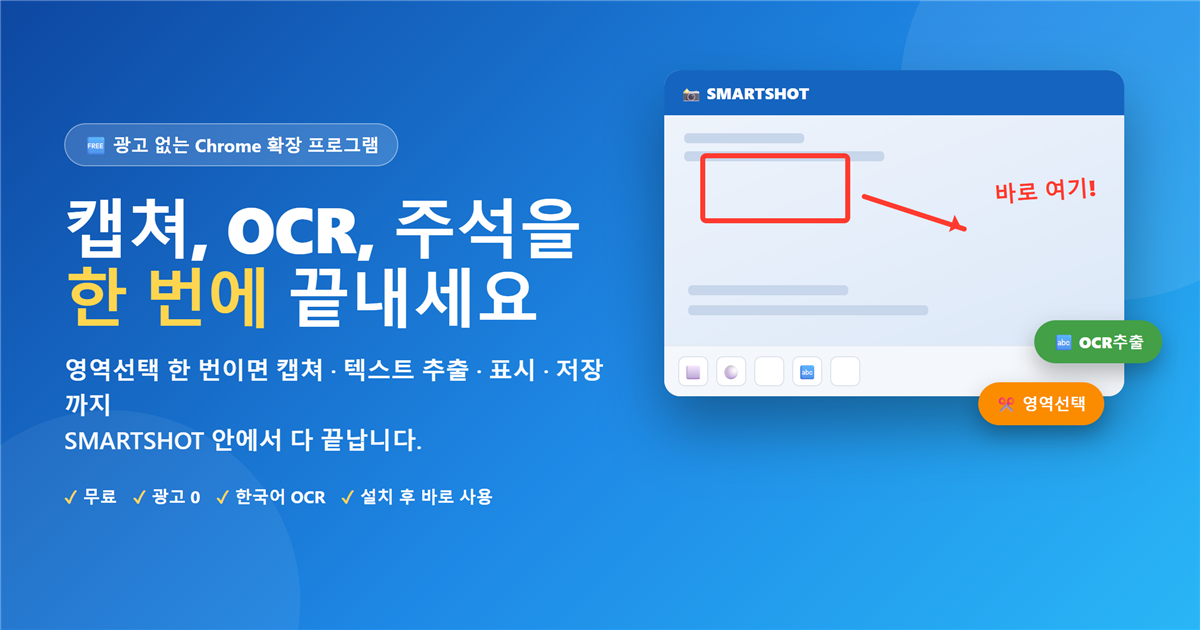
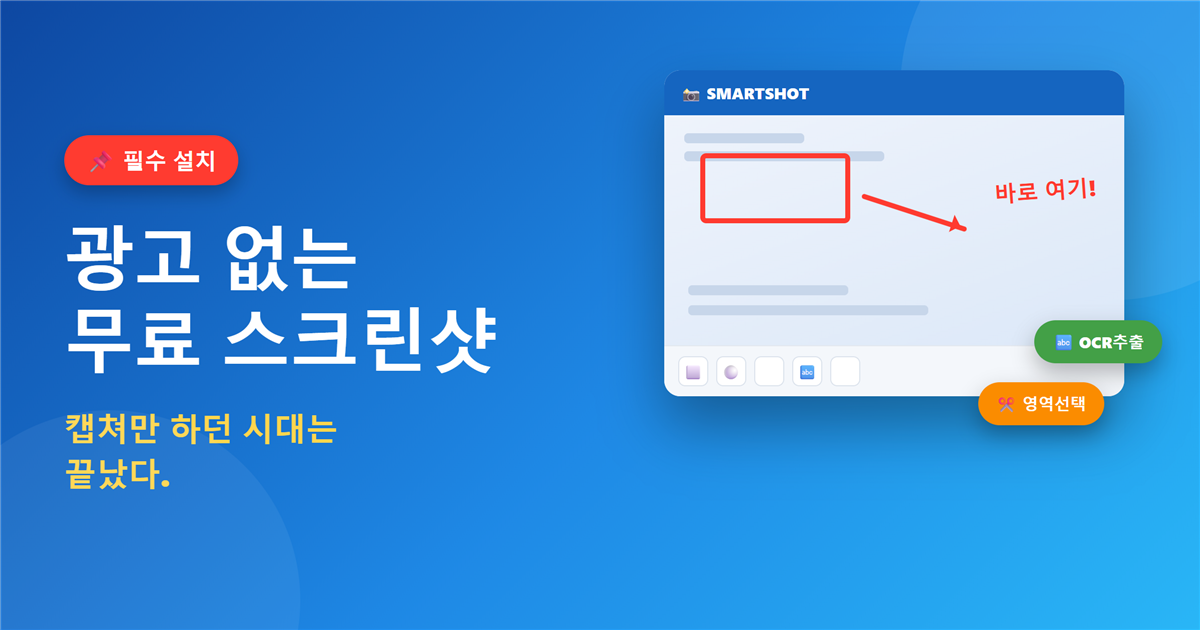
Rewrite SMARTSHOT OG copy: stronger hook, drop jargon
Replaces "주석" (jargon) and the long unreadable tagline with a
punchier headline/tagline pair scored against 9 alternatives
("필수 설치 — 광고 없는 무료 스크린샷 / 캡쳐만 하던 시대는 끝났다"),
sized for legibility in small KakaoTalk preview thumbnails.

Changed region(s): [[0.0308, 0.181, 0.5242, 0.8143]]

diff --git a/smartshot/landing.html b/smartshot/landing.html
@@ -7,15 +7,15 @@
 
 <meta property="og:type" content="website" />
 <meta property="og:url" content="https://www.smacedu.kr/smartshot/landing" />
-<meta property="og:title" content="SMARTSHOT — 캡쳐, OCR, 주석을 한 번에 끝내세요" />
-<meta property="og:description" content="영역선택 한 번이면 캡쳐 · 텍스트 추출 · 표시 · 저장까지 SMARTSHOT 안에서 다 끝납니다. 광고 없는 무료 Chrome 확장 프로그램." />
-<meta property="og:image" content="https://www.smacedu.kr/smartshot/og-image.png?v=1" />
+<meta property="og:title" content="필수 설치 — 광고 없는 무료 스크린샷" />
+<meta property="og:description" content="캡쳐만 하던 시대는 끝났다. 캡쳐부터 텍스트 추출, 꾸미기, 활용까지 SMARTSHOT 하나로 끝냅니다." />
+<meta property="og:image" content="https://www.smacedu.kr/smartshot/og-image.png?v=2" />
 <meta property="og:image:width" content="1200" />
 <meta property="og:image:height" content="630" />
 <meta name="twitter:card" content="summary_large_image" />
-<meta name="twitter:title" content="SMARTSHOT — 캡쳐, OCR, 주석을 한 번에 끝내세요" />
-<meta name="twitter:description" content="영역선택 한 번이면 캡쳐 · 텍스트 추출 · 표시 · 저장까지 SMARTSHOT 안에서 다 끝납니다." />
-<meta name="twitter:image" content="https://www.smacedu.kr/smartshot/og-image.png?v=1" />
+<meta name="twitter:title" content="필수 설치 — 광고 없는 무료 스크린샷" />
+<meta name="twitter:description" content="캡쳐만 하던 시대는 끝났다. 캡쳐부터 텍스트 추출, 꾸미기, 활용까지 SMARTSHOT 하나로 끝냅니다." />
+<meta name="twitter:image" content="https://www.smacedu.kr/smartshot/og-image.png?v=2" />
 <style>
   :root {
     --blue: #1e88e5;
